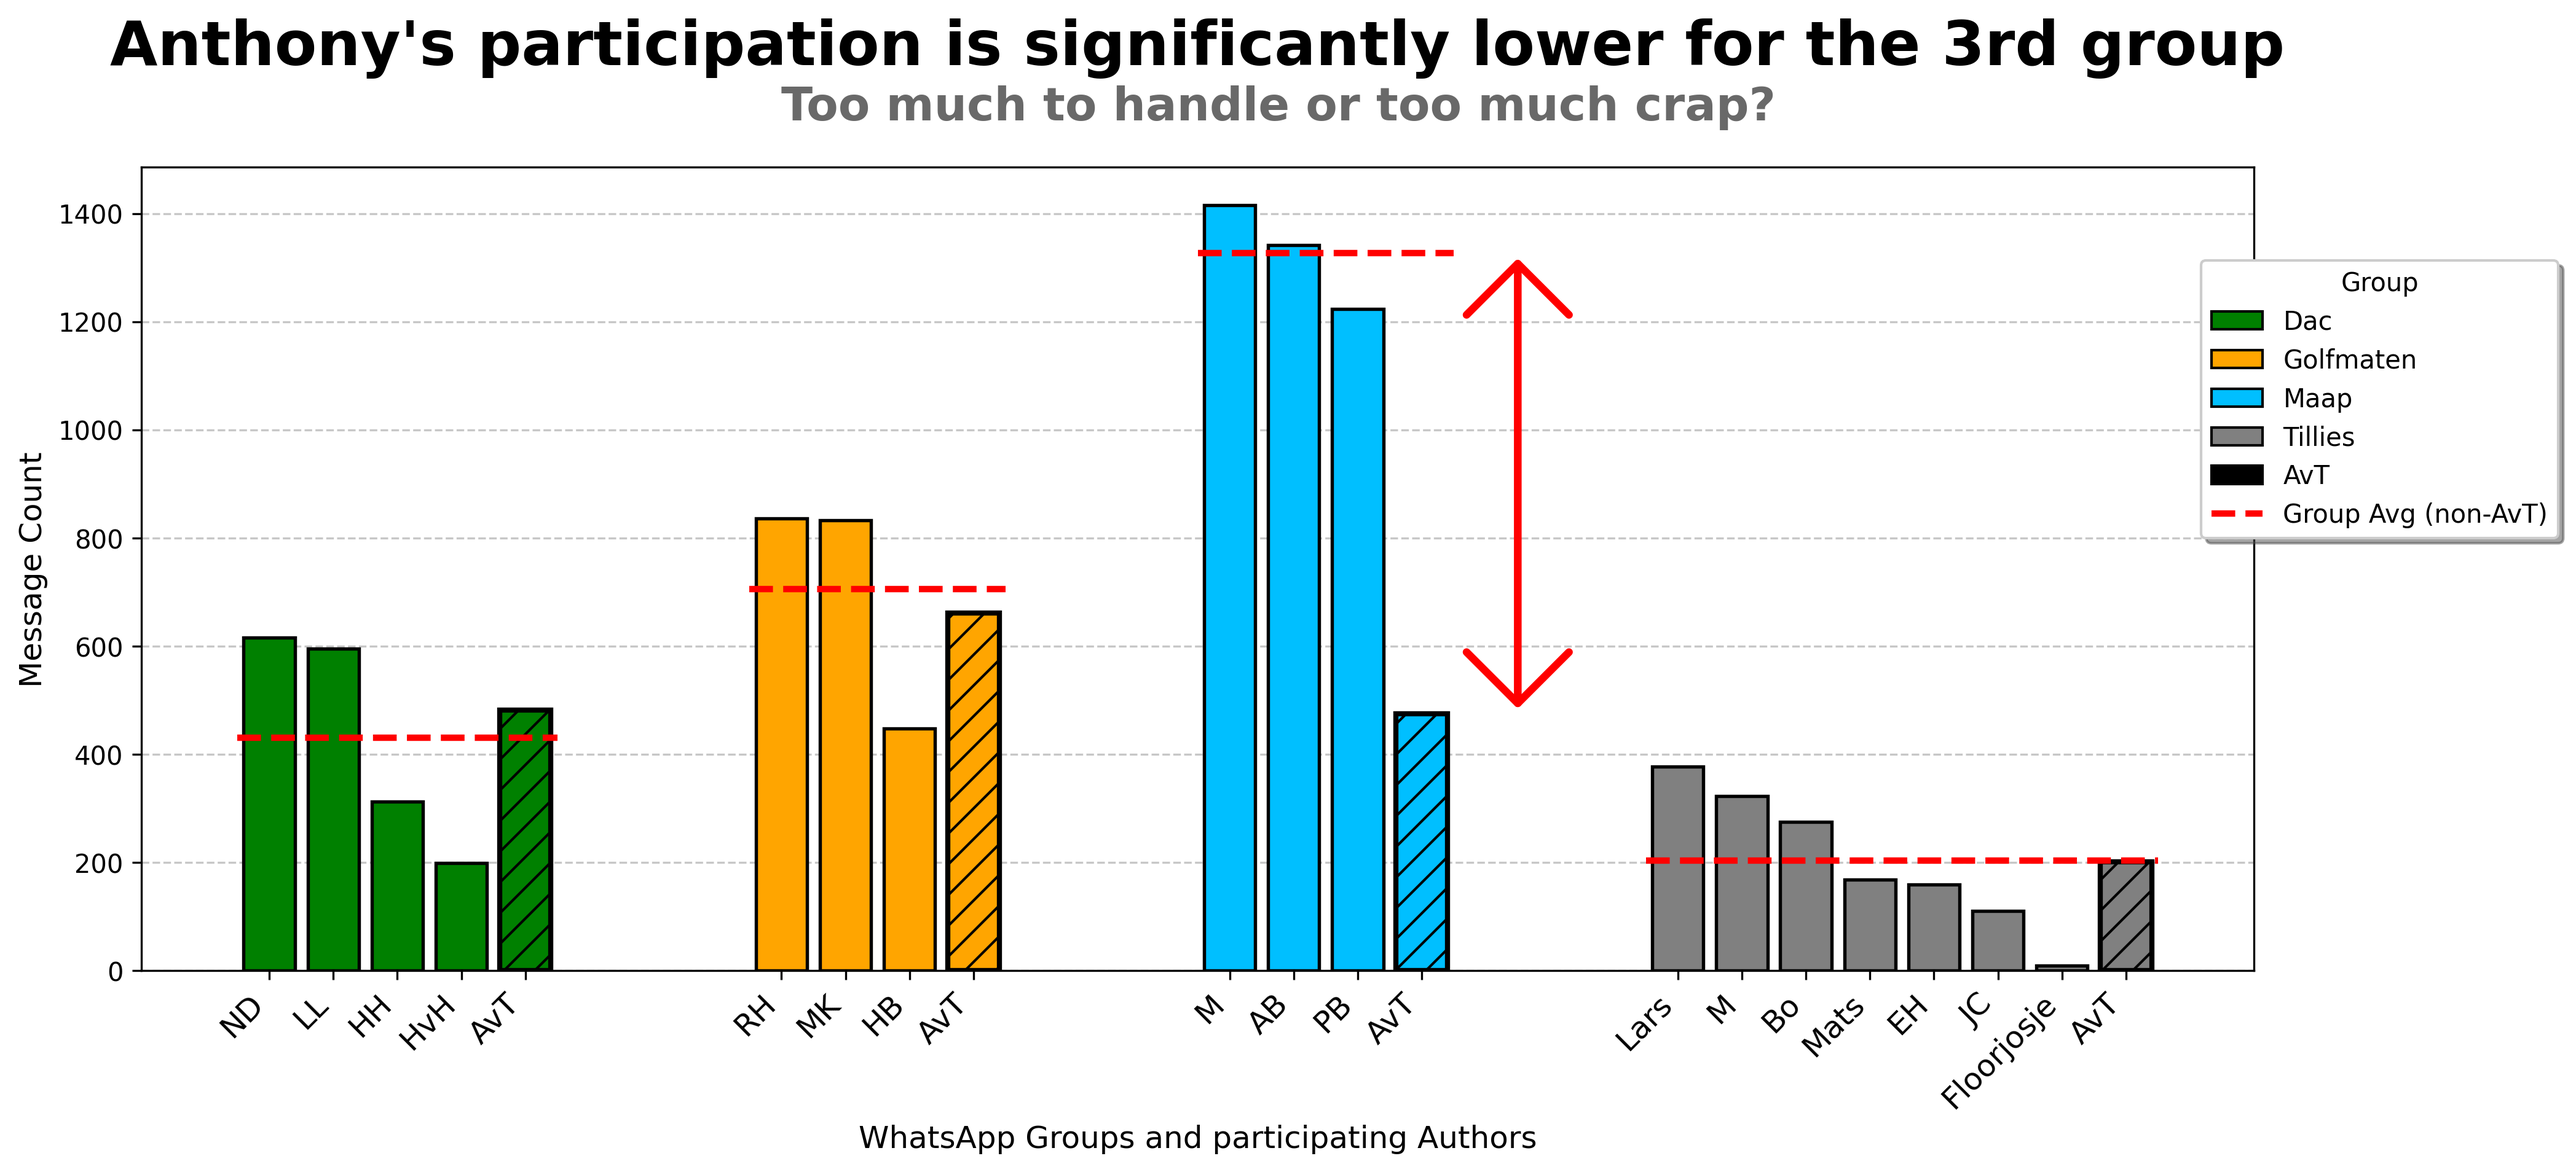
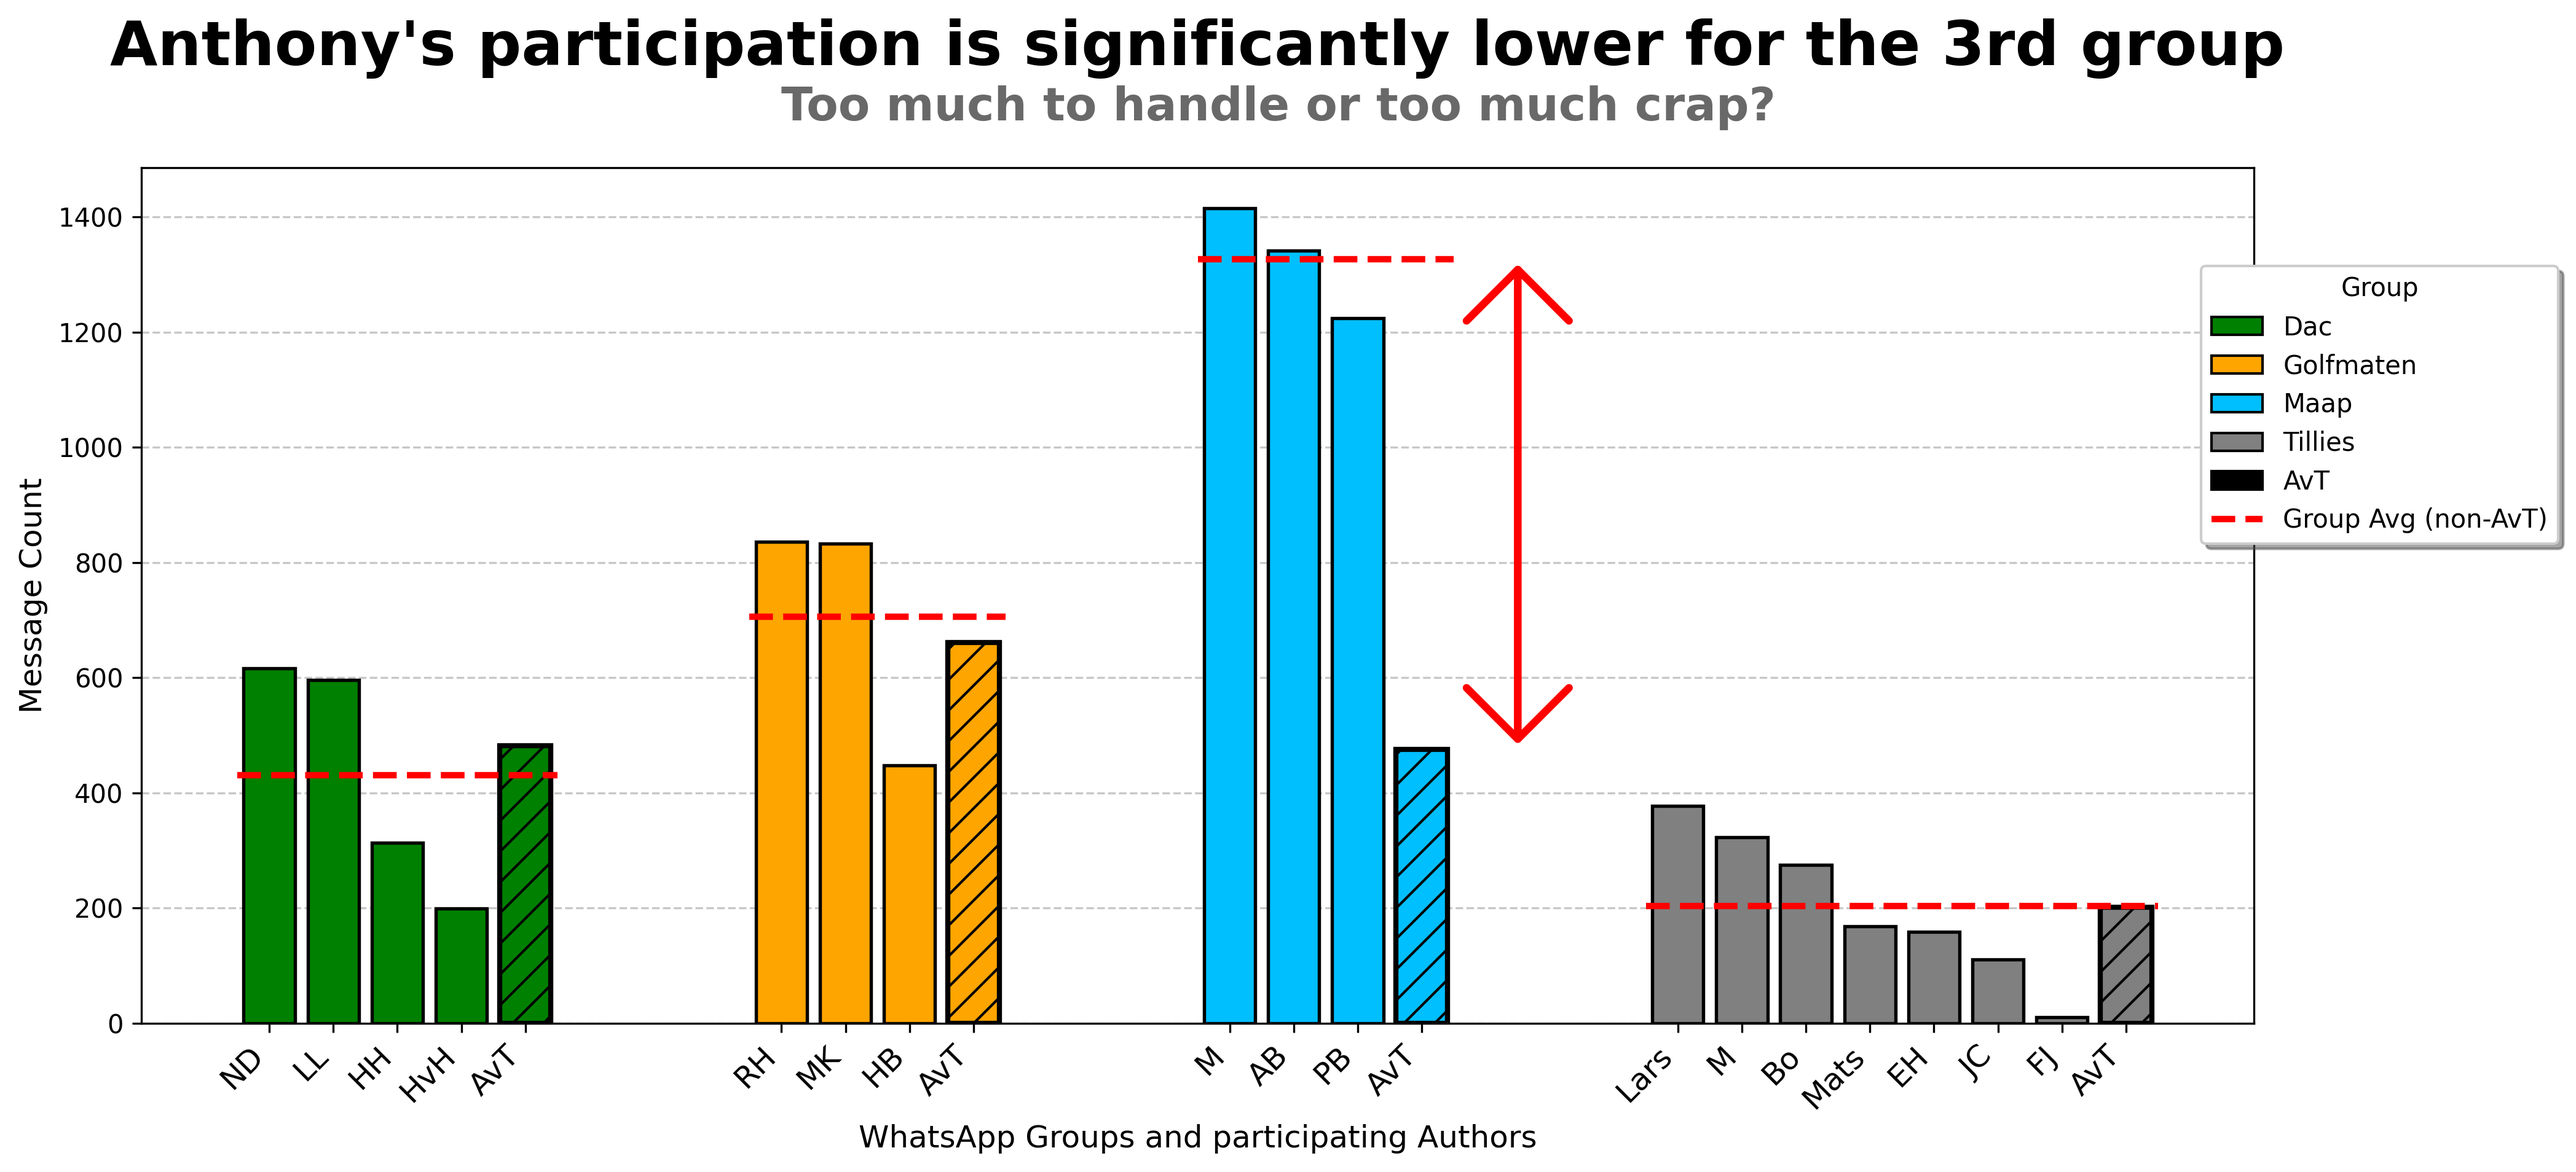
Issue FJ opgelost!

diff --git a/src/data_editor/core.py b/src/data_editor/core.py
@@ -170,9 +170,6 @@ class DataEditor:
             if df is None:
                 return None
 
-            # === 1. Replace author names with initials ===
-            df = self.replace_author_by_initials(df)
-
             # === Strip leading tilde ===
             tilde_nbsp_pattern = re.compile(r"^~\u202f")
             author_cols = [Columns.AUTHOR, Columns.PREVIOUS_AUTHOR, Columns.NEXT_AUTHOR]
@@ -180,6 +177,9 @@ class DataEditor:
                 if col in df.columns:
                     df[col] = df[col].astype(str).str.replace(tilde_nbsp_pattern, "", regex=True)
             logger.info("Removed leading '~ ' from author columns")
+
+            # === Replace author names with initials ===
+            df = self.replace_author_by_initials(df)
 
             # === Add all features ===
             df = self.engineer.add_all_features(

diff --git a/src/plot_manager.py b/src/plot_manager.py
@@ -155,8 +155,8 @@ class ArcPlotSettings(PlotSettings):
 
 # === 5. Bubble Plot Settings (Script5) ===
 class BubblePlotSettings(PlotSettings):
-    title: str = "Correlation between avg Words and avg Punctuations"
-    subtitle: str = "About 1 extra Punctuation per 10 words"
+    title: str = "Correlation between averages of Words and Punctuations"
+    subtitle: str = "About 1 extra punctuation per 10 words"
     bubble_alpha: float = 0.6
     min_bubble_size: int = 50
     max_bubble_size: int = 1000
